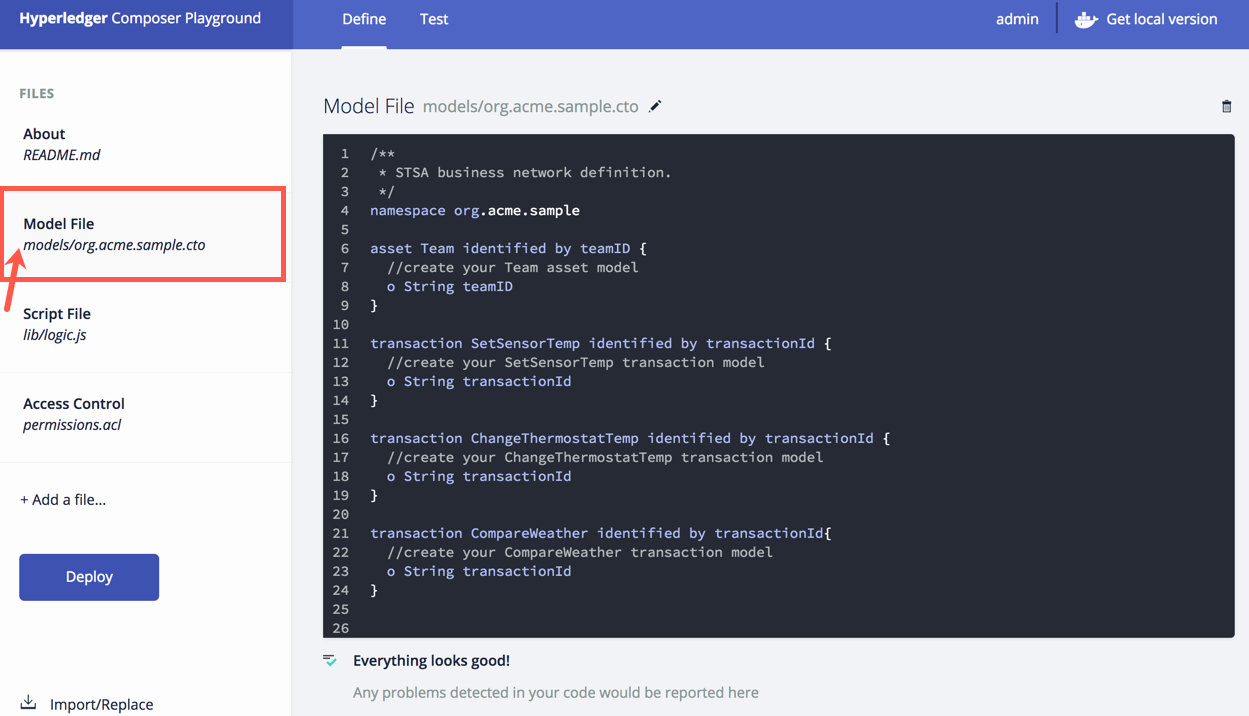
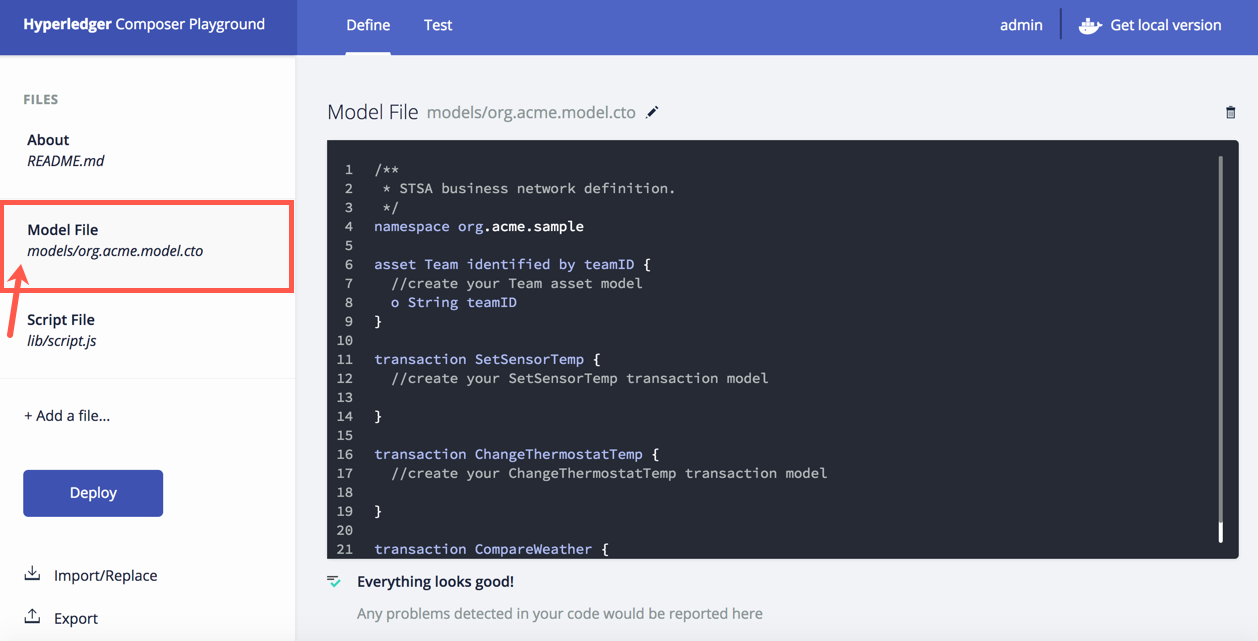
Updated README.md

diff --git a/README.md b/README.md
@@ -253,9 +253,8 @@ In this section of the lab you will be working with Hyperledger Composer to crea
       }
 
       /**In this case --> Team asset becomes --> Team DallasCowboys.*/
-      transaction SetSensorTemp identified by transactionId{
+      transaction SetSensorTemp {
         //create your SetSensorTemp transaction model
-        o String transactionId
         --> Team DallasCowboys
         o Double newSensorValue
       }
@@ -296,8 +295,6 @@ In this section of the lab you will be working with Hyperledger Composer to crea
 
 14. Now create your first transaction model for `SetSensorTemp`. Enter the following attributes:
 
-    * `o String transactionId` — This is given value by the fabric. We will never populate this field.
-
     * `--> Team asset` — The transaction will need to put data into the `Team` asset. This passes a reference to the asset so we can work with the asset in the logic for the transaction.
 
     * `o Double newSensorValue` — This is the variable that will be set by the temperature passed into the transaction from the Raspberry Pi Sens Hat.
@@ -316,7 +313,6 @@ In this section of the lab you will be working with Hyperledger Composer to crea
 
 15. Build your `ChangeThermostatTemp` transaction model. Add the following:
 
-    * `o String transactionId` — This is given value by the fabric. We will never populate this field.
     * `--> Team asset` — The transaction will need to put data into the `Team` asset. This passes a reference to the asset so we can work with the asset in the logic for the transaction.
     * `o Double newThermostatValue` — This allows for a new, proposed value to be sent into the transaction. In the logic tab, we will use this value to compare to what the sensor says and decide if the thermostat value should be adjusted.
 
@@ -335,8 +331,6 @@ In this section of the lab you will be working with Hyperledger Composer to crea
 
 
 16. Enter the following values to build your `CompareWeather` transaction model:
-
-    * `o String transactionId` — This is given value by the fabric. We will never populate this field.
 
     * `--> Team asset` — The transaction will need to put data into the `Team` asset. This passes a reference to the asset so we can work with the asset in the logic for the transaction.
 
@@ -1364,7 +1358,7 @@ Similarly like with the hybrid lab, you need to paste your username and password
 You can click **Done** when completed.
 
 4. Deploy the changes by clicking ont the **Deploy** button.
-![deploy button](images/blockchain-flow-deploy-button.png)
+   ![deploy button](images/blockchain-flow-deploy-button.png)
 
 5. Go to the Dashboard page
 
